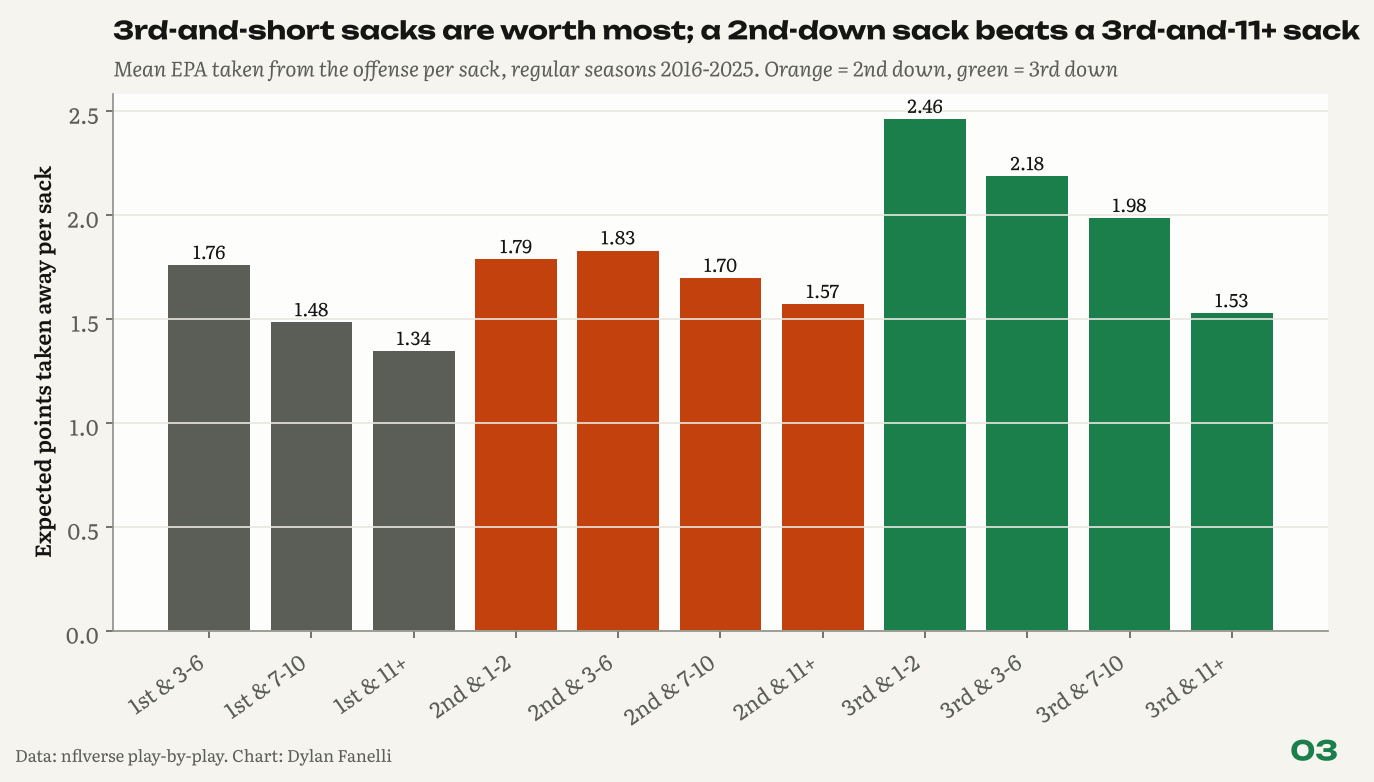
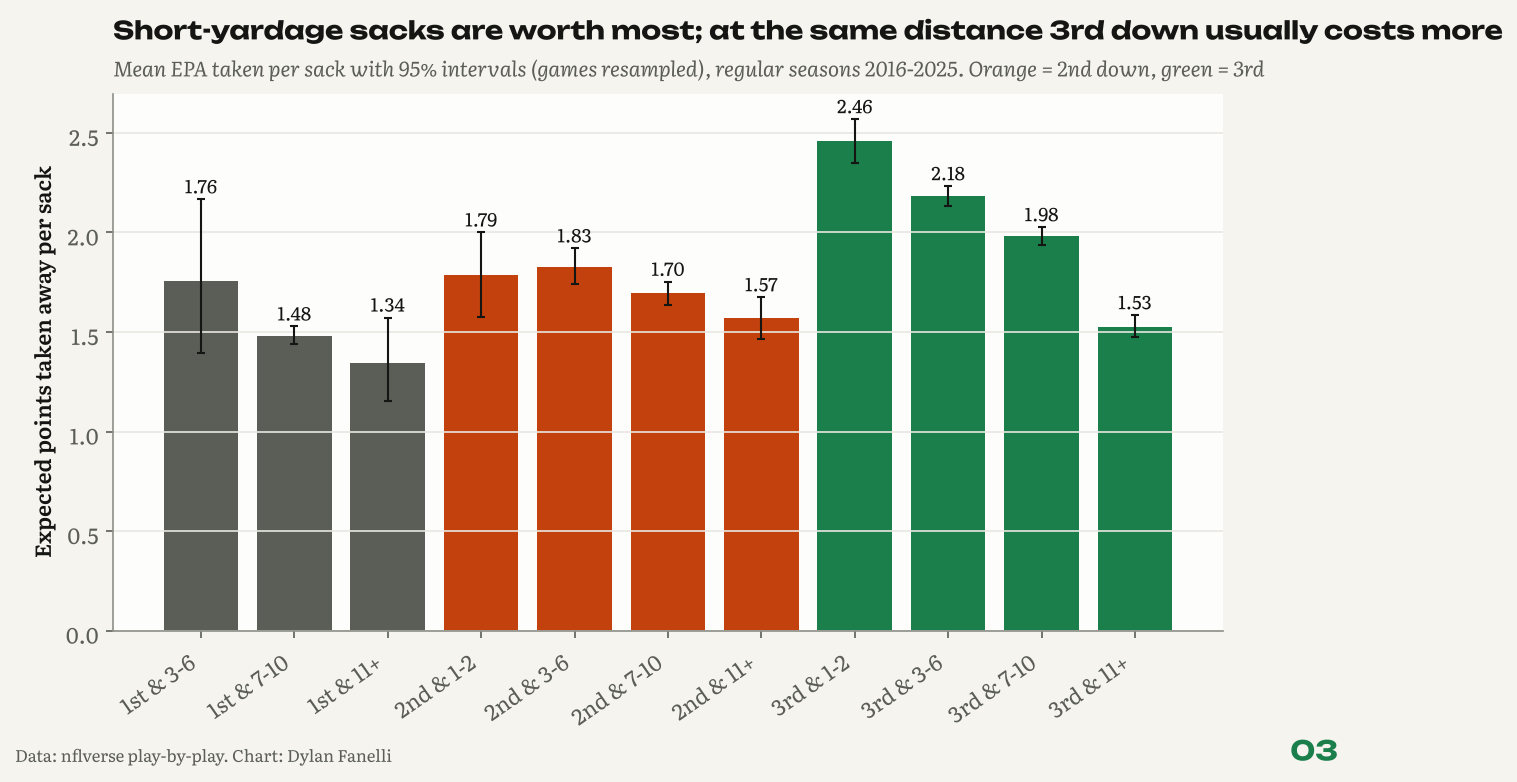
Study 03: like-for-like downs with intervals; board is descriptive (EPA per sack does not repeat)

diff --git a/reports/03-sack-leverage/README.md b/reports/03-sack-leverage/README.md
@@ -3,38 +3,40 @@
 # 03 Sack Leverage
 ### Not all sacks are created equal
 
-![status: published](https://img.shields.io/badge/status-published-0b6e4f) ![seasons: 2016-now](https://img.shields.io/badge/seasons-2016--now-1d2433) ![method: expected points](https://img.shields.io/badge/method-expected%20points-c2410c) ![method: replication](https://img.shields.io/badge/method-replication-c2410c) ![method: player valuation](https://img.shields.io/badge/method-player%20valuation-c2410c)
+![status: published](https://img.shields.io/badge/status-published-0b6e4f) ![seasons: 2016-now](https://img.shields.io/badge/seasons-2016--now-1d2433) ![method: expected points](https://img.shields.io/badge/method-expected%20points-c2410c) ![method: replication](https://img.shields.io/badge/method-replication-c2410c) ![method: game bootstrap](https://img.shields.io/badge/method-game%20bootstrap-c2410c) ![method: stability test](https://img.shields.io/badge/method-stability%20test-c2410c)
 
 **TL;DR**
 
-- Down and distance decide a sack's worth: short 3rd-down sacks take the most (3rd-and-1-2: 2.46 expected points), and an average 2nd-down sack (1.70) beats a 3rd-and-11+ sack (1.53).
+- Distance decides a sack's worth: 3rd-and-1-2 takes 2.46 expected points, 3rd-and-11+ only 1.53. At the same distance a third-down sack costs more than a second-down sack except at 11+ yards (-0.04, interval -0.15 to +0.07).
 - 82% of 2nd-down sacks leave 3rd-and-11 or longer, and the series survives only 21% of the time.
-- Brett Kollmann's third-down table replicates with public data (3rd-and-1-2 conversion 63.9% vs his 62.8%), and ranking rushers by value instead of sack count reorders the list.
+- EPA per sack does not repeat for a rusher (year-to-year r = 0.01, 95% interval -0.09 to 0.11), so the player board is a record of the season, not a skill rating.
 
-<p align="center"><img src="epa_per_sack.png" width="720" alt="Expected points taken away per sack, by down and distance."></p>
-<p align="center"><sub>Expected points taken away per sack, by down and distance.</sub></p>
+<p align="center"><img src="epa_per_sack.png" width="720" alt="Expected points taken away per sack, by down and distance, with 95% intervals."></p>
+<p align="center"><sub>Expected points taken away per sack, by down and distance, with 95% intervals.</sub></p>
 
 ## Key numbers
 
 | Measure | Value |
 |---|---|
-| Average 2nd-down sack, EPA taken | **1.70** |
-| 3rd-and-11+ sack, EPA taken | **1.53** |
+| Average 3rd-down sack / 2nd-down sack, EPA taken | **1.99 / 1.70** |
+| 3rd minus 2nd down at 7-10 yards | **+0.29 (+0.21 to +0.36)** |
+| 3rd minus 2nd down at 11+ yards | **-0.04 (-0.15 to +0.07)** |
 | 2nd-down sacks that leave 3rd-and-11+ | **82%** |
 | Series still converted after a 2nd-down sack | **21%** |
+| EPA per sack, year-to-year r (rushers) | **0.01 (-0.09 to 0.11)** |
 | 3rd-and-1-2 conversion rate (2022-2025) | **63.9%** |
 
 ## Why it matters for a club
 
-- **Pass-rush evaluation:** rank rushers by the expected points their sacks took, not the count; it reorders the list.
-- **Defensive game planning:** a second-down sack ends more drives than a long third-down sack. That is the value of the sack, not of calling pressure; whether a pressure call pays depends on what it gives up when it does not get home.
-- **Free agency:** a sack total built on long third downs is worth less than it looks.
+- **Defensive game planning:** a second-down sack ends most series because it leaves third-and-long. That is the value of the sack, not of calling pressure; whether a pressure call pays depends on what it gives up when it does not get home.
+- **Pass-rush evaluation:** when a rusher's sacks came is not a skill that repeats, so judge him on pressures and sack counts (study 07), not on the leverage of last year's sacks.
+- **Reviewing a season:** the board shows which sacks swung the most expected points, which is useful for telling the story of a season.
 
 ## The question
 
 **Are all sacks equal, or does the down and distance decide how much a sack is worth?**
 
-**Inspired by:** Brett Kollmann, [Not all sacks are created equal.](https://www.youtube.com/watch?v=o6q1dd0mI8Q). He used PFF data; this rebuilds his argument with public play-by-play and turns it into a player board.  
+**Inspired by:** Brett Kollmann, [Not all sacks are created equal.](https://www.youtube.com/watch?v=o6q1dd0mI8Q). He used PFF data; this rebuilds his table with public play-by-play, tests his second-down point at matched distances, and checks whether a rusher's value per sack repeats.  
 
 ## Data
 
@@ -42,29 +44,34 @@ nflverse play-by-play, regular seasons 2016 to now.
 
 ## Results
 
-### 1. His 3rd-down table replicates.
+### 1. His 3rd-down table roughly replicates.
 
-3rd-down conversion, 2022-2025: 1-2 yards 63.9%, 3-6 45.9%, 7-10 32.1%, 11+ 15.9% (Kollmann: 62.8, 46.8, 34.4, 16.3).
+3rd-down conversion (first down or touchdown), 2022-2025: 1-2 yards 63.9%, 3-6 45.9%, 7-10 32.1%, 11+ 15.9% (Kollmann, from PFF: 62.8, 46.8, 34.4, 16.3). The closest bucket is within a point; 7-10 yards is about two points lower here.
 
-### 2. Which sacks are worth most.
+### 2. Distance decides a sack's worth, and at the same distance third down usually costs more.
 
-Expected points taken per sack: 3rd-and-1-2 2.46, 3rd-and-3-6 2.18, 2nd-and-3-6 1.83, 2nd-and-7-10 1.7, 3rd-and-11+ only 1.53. Every 2nd-down bucket (1.57-1.83) is worth more than a 3rd-and-11+ sack.
+Expected points taken per sack (12,558 sacks): 3rd-and-1-2 2.46, 3rd-and-3-6 2.18, 3rd-and-7-10 1.98, 3rd-and-11+ 1.53; 2nd-and-1-2 1.79, 2nd-and-3-6 1.83, 2nd-and-7-10 1.7, 2nd-and-11+ 1.57. Third down minus second down at the same distance: +0.67 at 1-2 yards (95% interval +0.43 to +0.93), +0.36 at 3-6 (+0.25 to +0.46), +0.29 at 7-10 (+0.21 to +0.36), -0.04 at 11+ (-0.15 to +0.07). The average third-down sack takes 1.99 points and the average second-down sack 1.70. The one place a second-down sack matches a third-down sack is third-and-long, where the offense was unlikely to convert anyway.
 
-### 3. Why: a 2nd-down sack kills the series.
+### 3. Why a 2nd-down sack still hurts: it usually ends the series.
 
 82% of 2nd-down sacks leave 3rd-and-11 or longer. The offense extends the series 21% of the time after a 2nd-down sack, vs 46% after other 2nd-down dropbacks that also failed to convert.
 
-### 4. 2025 pass rushers by value, not count.
+### 4. EPA per sack is not a repeatable trait of the rusher.
 
-Top five by expected points taken: M.Garrett (23 sacks, 35.8 EPA), W.Anderson (12 sacks, 31.9 EPA), J.Sweat (12 sacks, 30.7 EPA), A.Hutchinson (14.5 sacks, 30.1 EPA), D.Hunter (15 sacks, 29.7 EPA). Biggest risers vs the sack list: T.Watt (#35 in sacks, #15 in value), D.Turner (#25 in sacks, #12 in value), A.Van Ginkel (#35 in sacks, #23 in value).
+For rushers with 5+ sacks in back-to-back seasons (387 pairs), EPA per sack repeats at r = 0.01 (95% interval -0.09 to 0.11); odd weeks against even weeks inside a season, r = 0.12. Sack counts repeat at r = 0.33 for the same players. So the board below records what happened in 2025; it does not rate a rusher's skill at picking his spots, and it should not move a contract number.
 
-<p align="center"><img src="pass_rusher_board.png" width="720" alt="Pass rushers ranked by expected points taken, not sack count."></p>
-<p align="center"><sub>Pass rushers ranked by expected points taken, not sack count.</sub></p>
+### 5. 2025 sacks by value (descriptive).
+
+Top five by expected points taken: M.Garrett (23 sacks, 35.8 EPA), W.Anderson (12 sacks, 31.9 EPA), J.Sweat (12 sacks, 30.7 EPA), A.Hutchinson (14.5 sacks, 30.1 EPA), D.Hunter (15 sacks, 29.7 EPA). Largest gaps between sack rank and value rank: T.Watt (#35 in sacks, #15 in value), D.Turner (#25 in sacks, #12 in value), A.Van Ginkel (#35 in sacks, #23 in value).
+
+<p align="center"><img src="pass_rusher_board.png" width="720" alt="Expected points taken by each rusher's sacks, last full season."></p>
+<p align="center"><sub>Expected points taken by each rusher's sacks, last full season.</sub></p>
 
 ## Method
 
 - Sacks are dropbacks with `sack == 1`; value is the negative of nflfastR EPA on the play.
 - Half sacks get half credit. Boards: 6+ sacks for a full season, 3+ for the season in progress.
+- Intervals on the down-and-distance table resample games 1,000 times. Stability intervals resample rushers 2,000 times.
 - Series success is nflfastR's `series_success` (the series earned a first down or scored a touchdown; field goals count as failures).
 
 **In equations**
@@ -73,13 +80,15 @@ Top five by expected points taken: M.Garrett (23 sacks, 35.8 EPA), W.Anderson (1
 
 ## Validation
 
-- Replicates Brett Kollmann's third-down conversion table from PFF data with public play-by-play: 63.9/45.9/32.1/15.9% vs his 62.8/46.8/34.4/16.3.
-- A unit test checks that conversion falls as distance grows.
+- Checked against Brett Kollmann's third-down conversion table (PFF data): 63.9/45.9/32.1/15.9% here vs his 62.8/46.8/34.4/16.3.
+- Stability before value: EPA per sack year to year r = 0.01 (387 pairs), odd vs even weeks r = 0.12 (381 rusher-seasons).
+- Down-and-distance intervals resample games, so sacks in the same game are not treated as independent.
 
 ## Limitations
 
 - Sacks only. Pressures and hurries need charting (`was_pressure` exists from 2023 in nflverse participation data); that is the next version.
 - EPA blames or credits the whole defense, not just the rusher who finished the play.
+- No garbage-time filter: sacks in decided games count the same as sacks in close ones.
 
 ## Next steps
 
@@ -99,9 +108,9 @@ Code: [`projects/sack_leverage.py`](../../projects/sack_leverage.py)
 | File | What it holds |
 |---|---|
 | [`third_down_by_distance.csv`](third_down_by_distance.csv) | Third-down conversion and sack rate by distance |
-| [`epa_lost_per_sack.csv`](epa_lost_per_sack.csv) | EPA taken per sack by down and distance |
-| `pass_rusher_board_<season>.csv` | Rushers ranked by EPA taken, last full season |
-| [`pass_rusher_board_2025.csv`](pass_rusher_board_2025.csv) | Rushers ranked by EPA taken, last full season |
+| [`epa_lost_per_sack.csv`](epa_lost_per_sack.csv) | EPA taken per sack by down and distance, with 95% intervals |
+| `pass_rusher_board_<season>.csv` | EPA taken by each rusher's sacks, last full season (descriptive) |
+| [`pass_rusher_board_2025.csv`](pass_rusher_board_2025.csv) | EPA taken by each rusher's sacks, last full season (descriptive) |
 | [`pass_rusher_board_2026.csv`](pass_rusher_board_2026.csv) | The same for the season in progress |
 | [`findings.json`](findings.json) | Every number quoted on this page, machine-readable |
 
